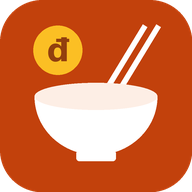
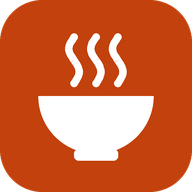
Đổi biểu tượng app sang kiểu đơn giản: bát cơm bốc hơi
Claude-Session: https://claude.ai/code/session_01B9Gq97E4TEoQjv2RFjdr67

diff --git a/sw.js b/sw.js
@@ -1,4 +1,4 @@
-const CACHE='so-tien-an-v3';
+const CACHE='so-tien-an-v4';
 const FILES=['./','index.html','manifest.webmanifest','icon-192.png','icon-512.png','icon-maskable-512.png'];
 self.addEventListener('install',e=>{e.waitUntil(caches.open(CACHE).then(c=>c.addAll(FILES)));self.skipWaiting();});
 self.addEventListener('activate',e=>{e.waitUntil(caches.keys().then(ks=>Promise.all(ks.filter(k=>k!==CACHE).map(k=>caches.delete(k)))));self.clients.claim();});
